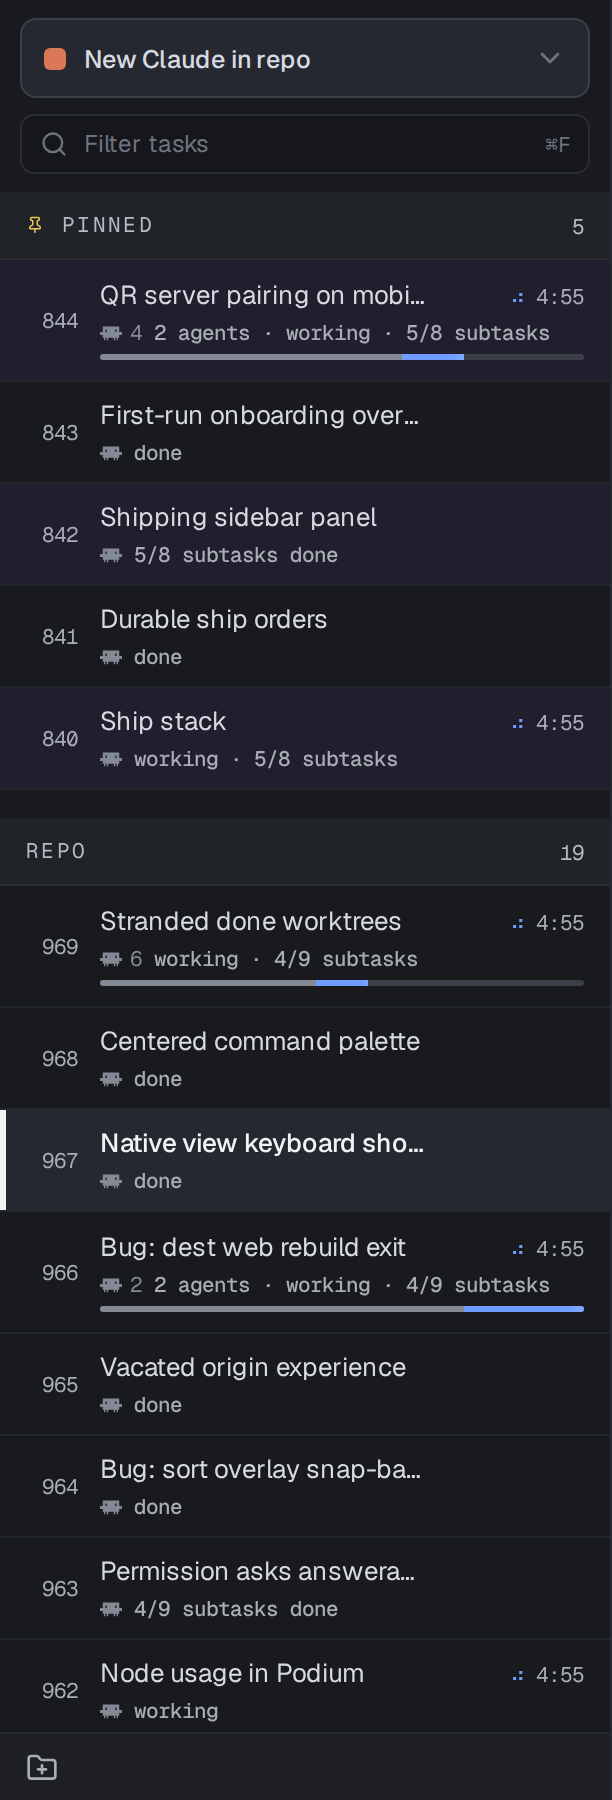
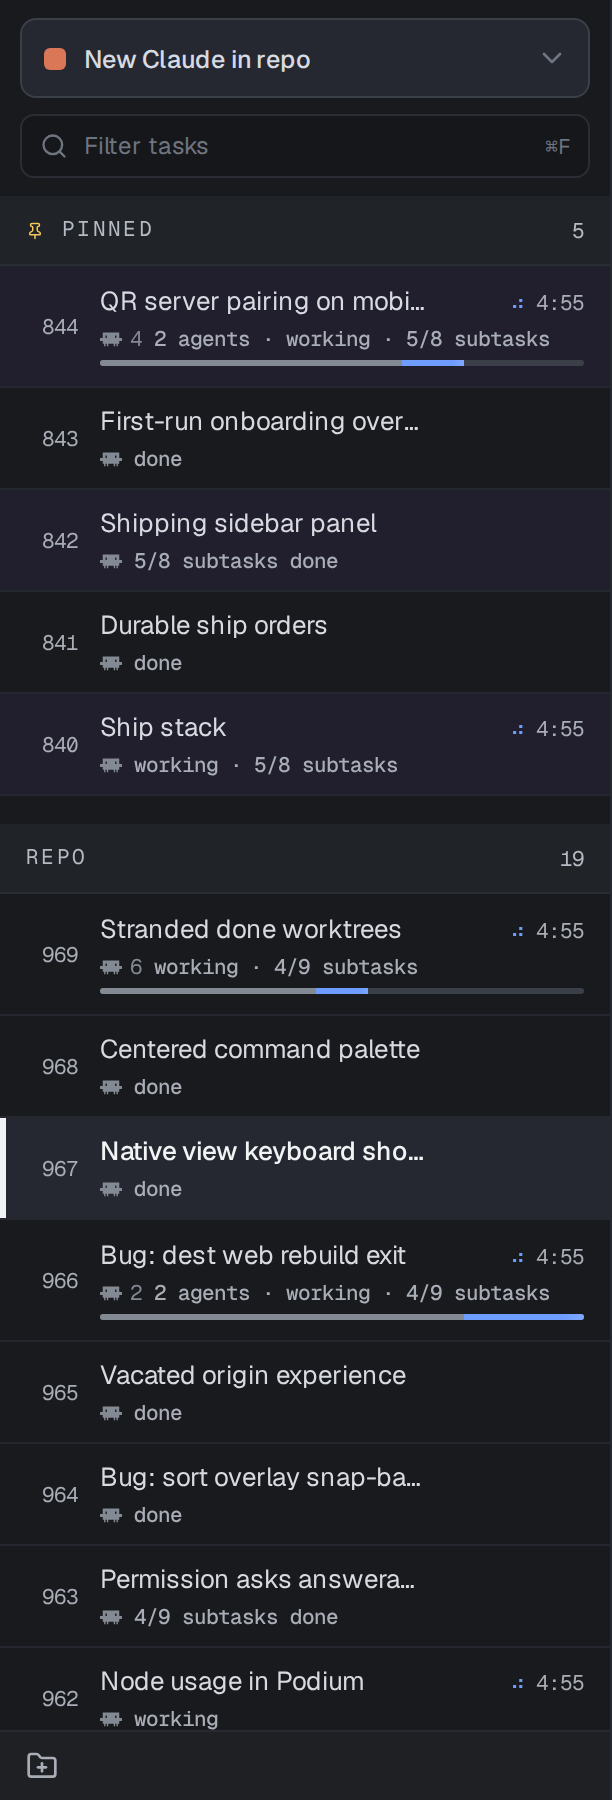
The mock is a content box everywhere, not just in the row
POD-1257, working the same spawn control, pointed out that the row's four-pixel
error was the general case and not a special one. `ADE Sidebar 3a.dc.html`
declares `box-sizing: border-box` exactly once — on its outer <section> — and
the dc runtime ships no reset, so EVERY height in that file has its border added
on top of the number written. Read as finished border-box heights they come out
short at four different scales, and the previous commit only caught two of them.

The remaining three:

  - THE SECTION BAND is `height:34px` over a 1px rule, so the artboard's band is
    35px and its ground is 34. Ours spent the rule inside the 34 and gave the
    band 33px of ground.
  - THE FOOTER STRIP, the same, against its top rule.
  - THE FILTER FIELD is `height:30px` inside a 1px rim on all four sides: 32px,
    not 30.

AND THE SPAWN CONTROL HAD NO HOVER IN LIGHT — a regression the previous commit
introduced and could not see. `data-pressable` says hover with
`filter: brightness(1.08)`, which can only ever BRIGHTEN. That was fine while
this control was a `--secondary` grey; making it the artboard's raised card put
it on `--chip`, which is #ffffff in every light preset, so the brightest thing
on screen got a brightening filter. Read as painted pixels rather than computed
style — which reports the background it was handed whether or not a filter
cancelled it — the hover delta in light was [0,0,0], against dark's +3.
[…]

diff --git a/apps/web/e2e/pod1253-spawn-hover.ts b/apps/web/e2e/pod1253-spawn-hover.ts
@@ -1,0 +1,63 @@
+/**
+ * POD-1253: the spawn control's hover, measured as PAINTED PIXELS.
+ *
+ * `data-pressable`'s hover is `filter: brightness(1.08)`, which can only
+ * brighten — and the artboard's chip rests on `#ffffff` in every light preset,
+ * where that is a literal no-op. Computed style cannot see this: it reports the
+ * background it was given whether or not the filter cancelled it. So this reads
+ * the actual pixel out of a screenshot, at rest and on hover, in both modes.
+ *
+ * The dark run is the positive control: if the light delta is 0 AND the dark
+ * delta is 0, the rig is not hovering anything and the light result means
+ * nothing.
+ *
+ *   bun apps/web/e2e/pod1253-spawn-hover.ts [origin]
+ */
+import { chromium } from 'playwright'
+
+const ORIGIN = process.argv[2] ?? 'http://localhost:55597'
+const browser = await chromium.launch()
+const page = await (await browser.newContext({ viewport: { width: 420, height: 900 } })).newPage()
+
+/** The mean RGB of the chip's interior, away from its rim and its glyphs. */
+async function chipPixel(): Promise<[number, number, number]> {
+  // `.first()`: the block holds two buttons — the chip and the chevron's own
+  // hitbox — and an ambiguous locator here reads as "element never appeared".
+  const btn = page.locator('[data-testid="new-agent-button"] button').first()
+  const box = await btn.boundingBox()
+  if (!box) throw new Error('no button')
+  const shot = await page.screenshot({
+    clip: { x: box.x + box.width - 60, y: box.y + 12, width: 24, height: 14 },
+  })
+  const { PNG } = await import('pngjs')
+  const png = PNG.sync.read(shot)
+  let r = 0
+  let g = 0
+  let b = 0
+  const n = png.width * png.height
+  for (let i = 0; i < n; i++) {
+    r += png.data[i * 4]
+    g += png.data[i * 4 + 1]
+    b += png.data[i * 4 + 2]
+  }
+  return [Math.round(r / n), Math.round(g / n), Math.round(b / n)]
+}
+
+for (const mode of ['light', 'dark'] as const) {
+  await page.goto(`${ORIGIN}/sidebar-harness.html?rows=8&mode=${mode}`, {
+    waitUntil: 'domcontentloaded',
+  })
+  await page.waitForSelector('[data-testid="work-scroll"]')
+  await page.waitForTimeout(1800)
+  await page.mouse.move(5, 800)
+  await page.waitForTimeout(300)
+  const rest = await chipPixel()
+  await page.locator('[data-testid="new-agent-button"] button').first().hover()
+  await page.waitForTimeout(350)
+  const hover = await chipPixel()
+  const delta = rest.map((v, i) => hover[i] - v)
+  console.log(
+    `${mode.padEnd(5)} rest=rgb(${rest})  hover=rgb(${hover})  delta=${JSON.stringify(delta)}`,
+  )
+}
+await browser.close()

diff --git a/apps/web/src/features/worklist/work-folds.tsx b/apps/web/src/features/worklist/work-folds.tsx
@@ -33,7 +33,7 @@ const TAIL_FOLD_CLASS =
  * It was a label floating on the column's ground — fine while every row under it
  * drew a hairline, but with the rules gone (see `WorkRowShell`) the labels were
  * the only structure left in a 30-row column and the lightest marks in it. So it
- * became a BAND: 34px, full-bleed, `--muted`, and a hairline UNDER it. It had a
+ * became a BAND: 34px of ground under a hairline, full-bleed, `--muted`. It had a
  * rule on both edges while it was the only ruled thing in the column; with the
  * rows ruled again (POD-1078) the top one was drawing a second line a pixel
  * under the last row's, so the band keeps the edge that is its own.
@@ -47,15 +47,21 @@ const TAIL_FOLD_CLASS =
  *  Shared because the empty work list wears a band too (POD-1058) and there is
  *  nothing there to fold: a STATIC band, so it takes the shape and the tone but
  *  none of the hover, focus or transition a button needs. Two spellings of
- *  34px/`--muted`/hairline would drift the moment one of them is retuned. */
+ *  35px/`--muted`/hairline would drift the moment one of them is retuned.
+ *
+ *  35px, NOT 34 (POD-1253): the mock's `height:34px` is a CONTENT box — the file
+ *  sets `box-sizing:border-box` exactly once, on its outer <section>, so the
+ *  1px rule sits OUTSIDE the 34 and the band measures 35. Ours spent the rule
+ *  inside the 34 and gave the band 33px of ground. Same reading error as the
+ *  row's `min-height`, one pixel instead of four. */
 export const SECTION_BAND_CLASS =
-  'flex h-[34px] w-full flex-none items-center gap-[9px] border-b border-hairline-bar bg-muted px-[13px] text-left'
+  'flex h-[35px] w-full flex-none items-center gap-[9px] border-b border-hairline-bar bg-muted px-[13px] text-left'
 
 /** The gap ABOVE a section that is not the first (POD-1078, the design's 14px).
  *  The band already said where a group STARTS; nothing said where one ended, so
  *  a project's last row and the next project's band met on a single hairline and
  *  the two groups read as one run. 14px of the column's ground parts them, and
- *  it stays well under the band's 34px so the band is still the thing you see
+ *  it stays well under the band's 35px so the band is still the thing you see
  *  when you scan.
  *
  *  It sits on the section, not between sections (no `gap` on the scroller): the

diff --git a/apps/web/e2e/pod1253-spawn-label.ts b/apps/web/e2e/pod1253-spawn-label.ts
@@ -1,0 +1,51 @@
+/**
+ * POD-1253: does the spawn control's label actually need the 5px that `pr-31`
+ * takes out of the artboard's 36px right boundary (11px inset + 16px glyph +
+ * the row's 9px gap)?
+ *
+ * Measures the label's natural width against the space each padding leaves, at
+ * the column's default width and at its minimum — so the deviation is a decision
+ * with a number behind it rather than a preference.
+ *
+ *   bun apps/web/e2e/pod1253-spawn-label.ts [origin]
+ */
+import { chromium } from 'playwright'
+
+const ORIGIN = process.argv[2] ?? 'http://localhost:55597'
+const browser = await chromium.launch()
+const page = await (await browser.newContext({ viewport: { width: 420, height: 900 } })).newPage()
+
+for (const width of [306, 260, 352]) {
+  await page.goto(`${ORIGIN}/sidebar-harness.html?rows=8&width=${width}`, {
+    waitUntil: 'domcontentloaded',
+  })
+  await page.waitForSelector('[data-testid="work-scroll"]')
+  await page.waitForTimeout(1800)
+  const out = await page.evaluate(() => {
+    const btn = document.querySelector('[data-testid="new-agent-button"] button') as HTMLElement
+    const label = btn.querySelector('span:not([aria-hidden])') as HTMLElement
+    // The label's NATURAL width: clone it out of the truncating flex context.
+    const probe = label.cloneNode(true) as HTMLElement
+    probe.style.cssText = 'position:absolute;visibility:hidden;white-space:nowrap;width:auto'
+    document.body.appendChild(probe)
+    const natural = probe.getBoundingClientRect().width
+    probe.remove()
+    const cs = getComputedStyle(btn)
+    const inner =
+      btn.getBoundingClientRect().width -
+      Number.parseFloat(cs.paddingLeft) -
+      Number.parseFloat(cs.paddingRight) -
+      2 * Number.parseFloat(cs.borderLeftWidth)
+    const swatch = 11 + 9 // swatch + gap
+    return {
+      text: (label.textContent ?? '').trim(),
+      naturalPx: Math.round(natural),
+      availableNow: Math.round(inner - swatch),
+      // What the artboard's 36px right boundary would leave instead.
+      availableAt36: Math.round(inner - swatch - (36 - Number.parseFloat(cs.paddingRight))),
+      truncatedNow: label.scrollWidth > label.clientWidth + 1,
+    }
+  })
+  console.log(`width=${width}`, JSON.stringify(out))
+}
+await browser.close()

diff --git a/apps/web/src/features/worklist/spawn-row.tsx b/apps/web/src/features/worklist/spawn-row.tsx
@@ -356,9 +356,19 @@ export function NewWorkRow({ sections }: { sections?: SidebarSections } = {}): J
           // looks like one instead of like a search box.
           //
           // `h-10` = the artboard's 38px content plus its rim, since this box is
-          // border-box; `px-[11px]` plus that rim is the mock's 12px inset.
+          // border-box; `px-[11px]` plus that rim is the mock's 12px inset. The
+          // mock is content-box throughout — it declares `box-sizing:border-box`
+          // exactly once, on its outer <section> — so every height in that file
+          // has its border added on top of the number written.
+          //
+          // `pr-36` is the artboard's own right boundary for the label: 11px
+          // inset + a 16px glyph + the row's 9px gap. An earlier cut spent 5 of
+          // that gap on label width to stop a repo name truncating; measured,
+          // the label has ~60px of slack at the column's default width and ~30
+          // at its minimum, so the deviation bought nothing and the mock's
+          // number stands (`e2e/pod1253-spawn-label.ts`).
           className={cn(
-            'flex h-10 w-full min-w-0 items-center gap-[9px] rounded-[8px] border border-border-strong bg-chip px-[11px] pr-[31px] text-[12.5px] font-medium tracking-[-0.005em] leading-[normal] text-foreground disabled:opacity-50',
+            'shell-spawn-chip flex h-10 w-full min-w-0 items-center gap-[9px] rounded-[8px] border border-border-strong bg-chip px-[11px] pr-[36px] text-[12.5px] font-medium tracking-[-0.005em] leading-[normal] text-foreground disabled:opacity-50',
             // The refusal is a DIM, not a colour: the row's own hue is the
             // agent's brand swatch, and greying is what every other refused
             // spawn affordance does. Warning ink is the exception — it is the

diff --git a/apps/web/src/styles.css b/apps/web/src/styles.css
@@ -129,6 +129,29 @@ html[data-density="compact"] {
 .shell-work-row:has([data-testid="row-progress"]) {
   --work-row-content: 46px;
 }
+/* THE SPAWN CHIP'S GROUND, AND THE ONE HOVER THE FILTER CANNOT DRAW (POD-1253).
+
+   `data-pressable` says hover with `filter: brightness(1.08)` (index.css), which
+   can only ever BRIGHTEN. That was fine while this control was a `--secondary`
+   grey. It is `--chip` now, and `--chip` is #ffffff in every light preset — so
+   the brightest thing on screen got a brightening filter and the control had no
+   hover feedback at all in light mode. The artboard hovers the other way:
+   #faf9f7 under a #ffffff rest, and #282c33 under #23262d in the dark board.
+   Both move TOWARD the foreground, which is what the mix below spells once for
+   both themes — measured at 3% it lands within two values of each.
+
+   It lives here rather than in a `hover:` utility because styles.css is
+   UNLAYERED and `[data-pressable]` sits in `@layer components`: this rule wins
+   wherever it disagrees, which is the only way `filter: none` can call the
+   brightness off. The press keeps its own darkening, restated because standing
+   the filter down on hover would otherwise take `:active` with it. */
+.shell-spawn-chip:hover:not(:disabled) {
+  background: color-mix(in srgb, var(--foreground) 3%, var(--chip));
+  filter: none;
+}
+.shell-spawn-chip:active:not(:disabled) {
+  filter: brightness(0.94);
+}
 html[data-density="compact"] .shell-work-row {
   --work-row-pad: 6px;
 }

diff --git a/apps/web/src/features/worklist/SidebarUnified.tsx b/apps/web/src/features/worklist/SidebarUnified.tsx
@@ -100,11 +100,12 @@ export function SidebarUnified(): JSX.Element {
       >
         <WorkSections derivation={derivation} query={filter.query} />
       </div>
-      {/* Footer: the 3a design's 34px strip at the column's 13px inset, on the
+      {/* Footer: the 3a design's 34px strip — 35 with its rule, which is
+          outside the 34 in a content-box mock (POD-1253) — at the column's 13px inset, on the
           same `--muted` ground as the section bands — the column's two chrome
           ends read as one tone and the list floats between them. We keep muted
           icon controls where the mock writes `new task` / `search` as words. */}
-      <AppToolsRow className="h-[34px] flex-none border-t border-hairline-bar bg-muted px-[13px]" />
+      <AppToolsRow className="h-[35px] flex-none border-t border-hairline-bar bg-muted px-[13px]" />
     </>
   )
 }

diff --git a/apps/web/src/features/worklist/work-search.tsx b/apps/web/src/features/worklist/work-search.tsx
@@ -89,7 +89,7 @@ export function WorkSearchField({ filter }: { filter: WorkFilter }): JSX.Element
   return (
     <div
       data-testid="work-search"
-      className="mx-2.5 mt-2 mb-[9px] flex h-[30px] flex-none items-center gap-2 rounded-[7px] border border-input bg-background px-[9px] focus-within:ring-2 focus-within:ring-ring/40"
+      className="mx-2.5 mt-2 mb-[9px] flex h-8 flex-none items-center gap-2 rounded-[7px] border border-input bg-background px-[9px] focus-within:ring-2 focus-within:ring-ring/40"
     >
       <Search size={14} className="flex-none text-text-faint" aria-hidden="true" />
       <input

diff --git a/docs/design/pod1253/sidebar-3a-conformance.md b/docs/design/pod1253/sidebar-3a-conformance.md
@@ -2,9 +2,16 @@
 
 What the artboard specifies, what shipped, and what changed. Every "artboard"
 number below was read off the mock rendered in a browser
-(`getComputedStyle` / `getBoundingClientRect`), not off the source, because the
-mock's boxes are `content-box` and half the drift came from reading its
-`min-height` as a finished row height.
+(`getComputedStyle` / `getBoundingClientRect`), not off the source.
+
+**The mock is `content-box` throughout.** `ADE Sidebar 3a.dc.html` declares
+`box-sizing: border-box` exactly once, on its outer `<section>`, and the dc
+runtime ships no reset — so every `height` and `min-height` in that file has its
+border added ON TOP of the number written. Reading those numbers as finished
+border-box heights is where most of the drift came from, at four scales at once:
+4px on every row, 10px on a metered row, 2px on the spawn control and the filter
+field, 1px on the bands and the footer. (Caught for the spawn control by the
+agent on POD-1257, who was working the same row; the generalisation is theirs.)
 
 Two artboards are in scope: **3a** (the column) and **3b** (the same column with
 the inline filter, which is the composition we actually ship — the filter sits
@@ -20,14 +27,14 @@ it.
 | Row with the progress meter | `min-height:46px` + 7px + rule = **61px** | ~55px | **61px** |
 | Row padding / gap / rule | `7px 13px`, gap 11, 1px | same | same |
 | Spawn block | `padding: 9px 10px 0` (3b) | `10px 16px 8px 12px` | **`9px 10px 0`** |
-| Spawn control | 38px inside a 1px rim = **40px**, radius 8, gap 9, `padding: 0 11px` | 30px, radius 6, gap 8, no rim | **40px, radius 8, gap 9, rim** |
+| Spawn control | 38px inside a 1px rim = **40px**, radius 8, gap 9, `padding: 0 11px`, label boundary at 11+16+9 = **36px** | 30px, radius 6, gap 8, no rim | **40px, radius 8, gap 9, rim, pr 36** |
 | Spawn control ground | the RAISED tier (`#ffffff` paper / `#23262d` dark) | `--secondary`, a recess | **`--chip`** |
 | Spawn label | 500, 12.5px, `-.005em` | 400, 12px | **500, 12.5px** |
 | Spawn swatch / chevron | 11px radius 3 / 16px at an 11px inset | 10px / 14px | **11px / 16px** |
-| Section band | 34px, `0 13px`, gap 9, `--muted`, rule under | gap 8 | **gap 9** |
+| Section band | 34px of ground + a 1px rule = **35px**, `0 13px`, gap 9, `--muted` | 34px total, gap 8 | **35px, gap 9** |
 | Tail fold (`12 closed`) | `padding: 16px 13px 0`, gap 9, 13px chevron | `16px 13px 4px`, 12px chevron, one rung fainter | **`16px 13px 0`, 13px, `--text-dim`** |
-| Footer strip | 34px, `0 13px`, gap 14, 16px glyphs on the 13px inset | gap 4, 28px cells, first glyph at 19px | **gap 14, 16px glyphs at 13px** |
-| Search field (3b) | 30px, radius 7, `0 9px`, 14px glyph | 13px glyph | **14px glyph** |
+| Footer strip | 34px + its 1px rule = **35px**, `0 13px`, gap 14, 16px glyphs on the 13px inset | 34px total, gap 4, 28px cells, first glyph at 19px | **35px, gap 14, glyphs at 13px** |
+| Search field (3b) | 30px inside a 1px rim = **32px**, radius 7, `0 9px`, 14px glyph | 30px total, 13px glyph | **32px, 14px glyph** |
 
 The row box is the one that mattered most: **every row in the column was four
 pixels short**, and a metered row ten. The mock writes two different
@@ -55,6 +62,16 @@ place.
   DESIGN.md §5 asks live activity to read calm blue and it still does — in the
   spinner and in the meter's running segment, which are the two marks that *are*
   the activity. Amber remains the one exception, for a row that is asking.
+
+- **The spawn control has a hover again, in light.** Making it the artboard's
+  raised `--chip` card quietly killed its hover: `data-pressable` says hover with
+  `filter: brightness(1.08)`, which can only brighten, and `--chip` is `#ffffff`
+  in every light preset. Measured as painted pixels, the hover delta there was
+  `[0,0,0]` — no feedback at all — while dark moved `+3`. The artboard hovers the
+  other way (`#faf9f7` under `#ffffff`, `#282c33` under `#23262d`): both move
+  *toward the foreground*, which `.shell-spawn-chip` now spells once for both
+  themes as a 3% mix, standing the filter down. Post-fix: light `-6`, dark `+5`,
+  against the mock's own `+5`. (Caught by the agent on POD-1257.)
 
 ## Not changed, and why
 
@@ -101,6 +118,22 @@ harness (`apps/web/vite.sidebar.config.ts`) exists for exactly this: the real
 `SidebarUnified` over a stubbed store, still between presses.
 `apps/web/e2e/pod1253-raf-control.ts` is the positive control — a plain CSS
 transition in the same browser, which must report ~60 frames or the rig is blind.
+
+## The rigs, and their controls
+
+Three of these measure things a screenshot and a computed style both lie about,
+so each carries a control that has to fire before its result means anything:
+
+- `pod1253-harness.ts` — geometry and fold sampling in the harness. Control: an
+  **idle** run before each gesture (~60fps, no long tasks) — without it a busy
+  app and a slow fold are the same number.
+- `pod1253-raf-control.ts` — a plain CSS transition in the same browser. If this
+  reports a handful of frames, the sampler is blind.
+- `pod1253-spawn-hover.ts` — the hover read as **painted pixels**, because
+  `getComputedStyle` reports the background it was handed whether or not a filter
+  cancelled it. Control: the dark run, which must move even when light does not.
+- `pod1253-spawn-label.ts` — whether a padding deviation actually buys label
+  width. It did not, which is how `pr-36` came back.
 
 ## Shots
 
